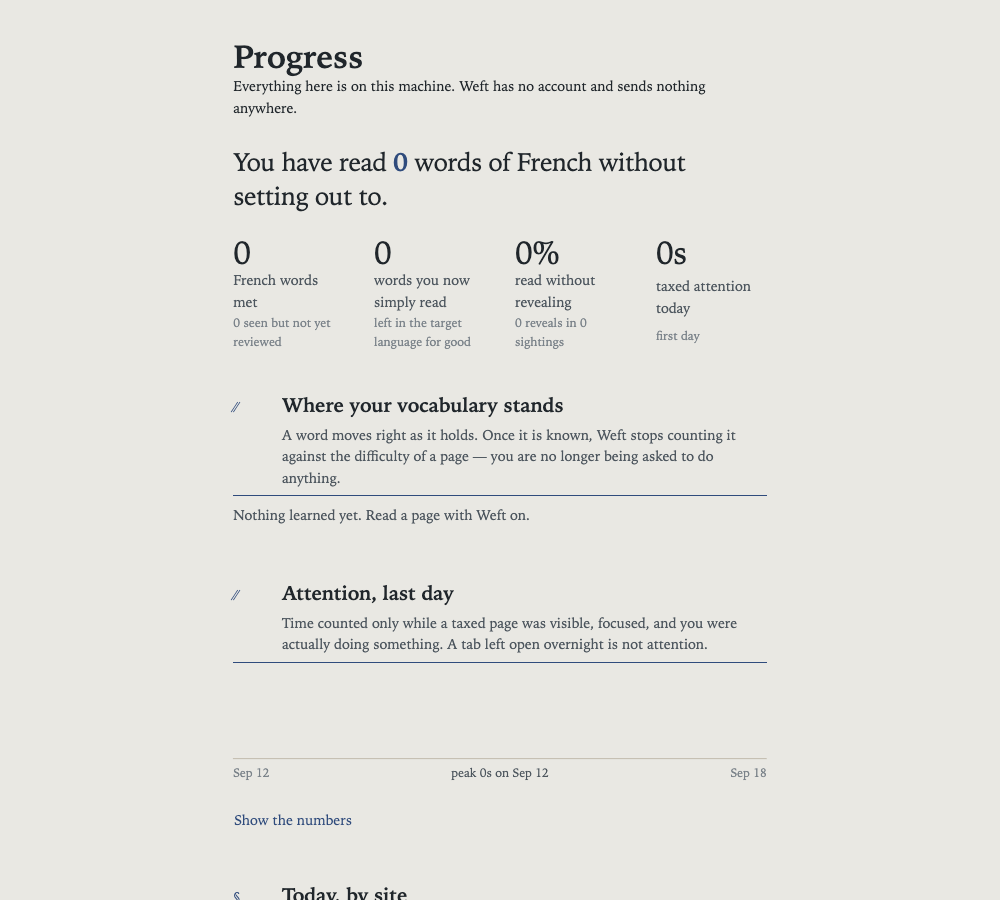
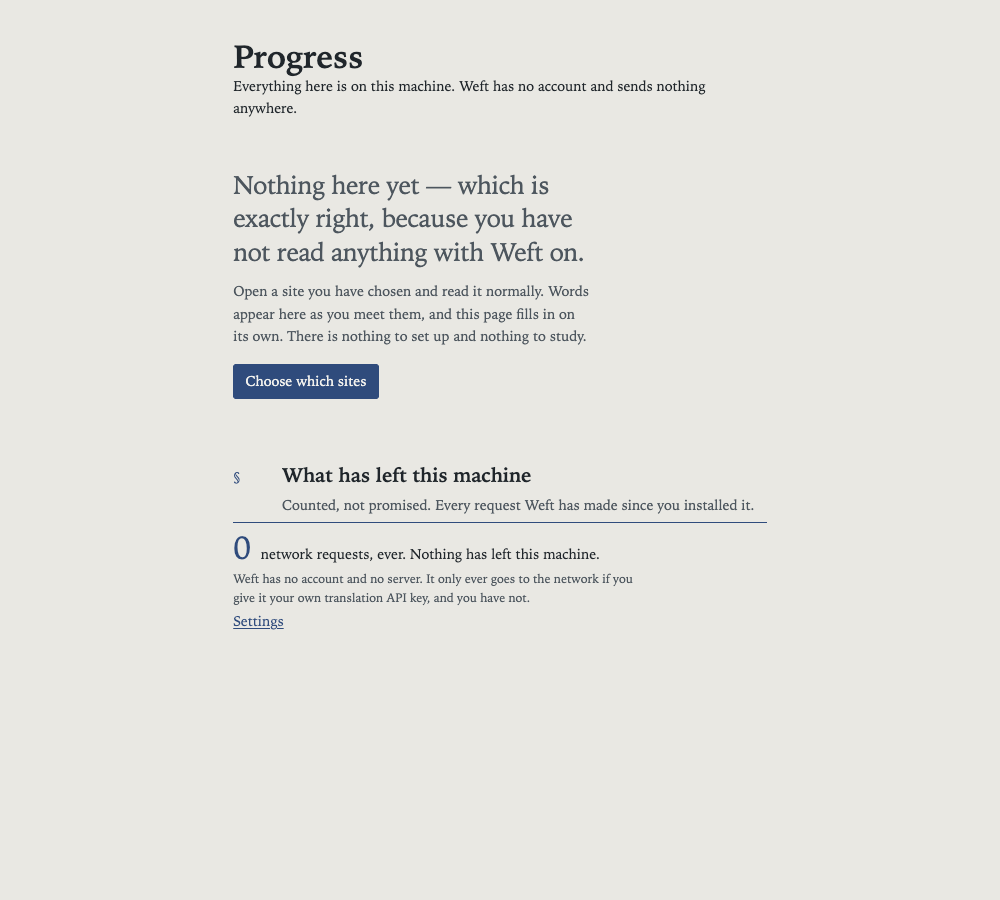
The progress page met new users with a wall of zeros
A fresh install opening Progress saw "You have read 0 words of French
without setting out to", four zero tiles, "Nothing learned yet" underneath a
heading about where your vocabulary stands, and a flat chart labelled
"peak 0s". Every panel was individually correct and the page as a whole read
as broken — on the first screen someone opens after installing.

It now says the true thing: nothing here yet, which is exactly right,
because you have not read anything with Weft on. Then what happens next, and
one button.

The panels that describe a history are hidden when there is none. The
transparency panel is deliberately NOT hidden, so the first thing a new
reader sees is "0 network requests, ever. Nothing has left this machine."
That panel is worth more empty than full: it is the most reassuring thing
this product can say to someone who has just installed a browser extension
and is wondering what it does.

Also caught myself inventing a CSS custom property. The new styles used
var(--ink-2), which is not in the theme — the token is --ink-soft — so the
text would have silently fallen back to inherited colour. Exactly the
dead-declaration failure I have been finding elsewhere in this codebase, so
I checked every token in the file afterwards; the rest resolve.

470 unit, 97 jsdom, three builds validated, 34 e2e (+1).

diff --git a/src/ui/dashboard/index.tsx b/src/ui/dashboard/index.tsx
@@ -92,6 +92,17 @@ function Dashboard() {
     historical: lang.historical,
     limit: 24,
   });
+  /**
+   * Has this install ever done anything?
+   *
+   * Worth its own branch, because every panel below is built for someone
+   * with a history. Shown to a new reader they render as a wall of zeros —
+   * "you have read 0 words", four zero tiles, an empty chart and a flat
+   * line — which reads as a broken page rather than as an unused one, on
+   * the first screen they open after installing.
+   */
+  const untouched = v.total === 0 && attn.todaySeconds === 0 && wordsRead(mine) === 0;
+
   const milestoneInput = { cards: mine, settings, now, streakDays: attn.streakDays };
   const earned = earnedMilestones(milestoneInput);
   const next = nextMilestone(milestoneInput);
@@ -146,11 +157,30 @@ function Dashboard() {
         </p>
       </header>
 
-      <p class="headline">
-        You have read <strong>{wordsRead(mine).toLocaleString()}</strong> words of{' '}
-        {lang.name} without setting out to.
-      </p>
+      {untouched ? (
+        <section class="empty">
+          <p class="empty__lead">
+            Nothing here yet — which is exactly right, because you have not read anything with
+            Weft on.
+          </p>
+          <p class="empty__body">
+            Open a site you have chosen and read it normally. Words appear here as you meet them,
+            and this page fills in on its own. There is nothing to set up and nothing to study.
+          </p>
+          <div class="empty__actions">
+            <button type="button" data-variant="primary" onClick={() => void api.runtime.openOptionsPage()}>
+              Choose which sites
+            </button>
+          </div>
+        </section>
+      ) : (
+        <p class="headline">
+          You have read <strong>{wordsRead(mine).toLocaleString()}</strong> words of{' '}
+          {lang.name} without setting out to.
+        </p>
+      )}
 
+      {untouched ? null : (
       <div class="tiles">
         <Tile
           value={String(v.total)}
@@ -173,6 +203,7 @@ function Dashboard() {
           detail={attn.streakDays > 1 ? `${attn.streakDays}-day run` : 'first day'}
         />
       </div>
+      )}
 
       {discoveries.length ? (
         <Section
@@ -226,6 +257,19 @@ function Dashboard() {
         </Section>
       ) : null}
 
+      {/*
+        Everything from here to the transparency panel describes a history.
+        With no history they render as empty shells — "nothing learned yet"
+        under a heading about where your vocabulary stands, a flat chart
+        with "peak 0s", an empty word list — which is a worse answer than
+        not asking the question. The empty state above says it once.
+
+        The transparency panel below is deliberately NOT hidden: "0 requests"
+        is the most useful thing this page can tell a reader who has just
+        installed the extension and wants to know what it does.
+      */}
+      {untouched ? null : (
+      <>
       <Section
         siglum="⁄⁄"
         title="Where your vocabulary stands"
@@ -344,6 +388,8 @@ function Dashboard() {
           <p class="muted">Showing the first 400 of {visible.length}.</p>
         ) : null}
       </Section>
+      </>
+      )}
 
       <Section
         siglum="§"

diff --git a/tests/e2e/friction.spec.ts b/tests/e2e/friction.spec.ts
@@ -521,3 +521,38 @@ test.describe('turning a site on from the popup', () => {
     await page.close();
   });
 });
+
+test.describe('the progress page before you have done anything', () => {
+  /*
+   * A fresh install opening Progress used to meet "You have read 0 words",
+   * four zero tiles, "Nothing learned yet" under a heading about where your
+   * vocabulary stands, and a flat chart reading "peak 0s". Each panel was
+   * correct and the page as a whole read as broken, on the first screen
+   * someone opens after installing.
+   */
+  test('shows an explanation, not a wall of zeros', async ({ context, extensionId, rpc }) => {
+    await rpc({ type: 'reset-vocabulary', confirm: 'yes' });
+
+    const page = await context.newPage();
+    await page.goto(`chrome-extension://${extensionId}/dashboard.html`);
+
+    await expect(page.locator('.empty__lead')).toBeVisible({ timeout: 10_000 });
+    await expect(page.locator('.headline')).toHaveCount(0);
+    await expect(page.locator('.tiles')).toHaveCount(0);
+
+    // The history panels describe a history there is none of.
+    await expect(page.getByText('Where your vocabulary stands')).toHaveCount(0);
+    await expect(page.getByText('Nothing learned yet')).toHaveCount(0);
+
+    /*
+     * But the transparency panel stays. "0 requests" is the most useful
+     * thing this page can tell someone who has just installed an extension
+     * and wants to know what it is doing, so it is the one panel that is
+     * worth more empty than full.
+     */
+    await expect(page.getByText('What has left this machine')).toBeVisible();
+    await expect(page.getByText(/network requests, ever/i)).toBeVisible();
+
+    await page.close();
+  });
+});

diff --git a/src/ui/dashboard/dashboard.css b/src/ui/dashboard/dashboard.css
@@ -244,3 +244,32 @@
 }
 
 .transparency__label { font-size: var(--t-15); line-height: 1.45; }
+
+/*
+ * The empty state, for an install that has not read anything yet.
+ *
+ * Replaces the headline and the tiles rather than sitting above them: four
+ * zeroes and a flat chart are not a smaller version of this page, they are
+ * a broken-looking one, and this is the first screen a new reader opens.
+ */
+.empty {
+  margin: 1.75rem 0 0;
+  max-width: 46ch;
+}
+
+.empty__lead {
+  margin: 0;
+  font-size: var(--t-27);
+  line-height: 1.32;
+  letter-spacing: -0.012em;
+}
+
+.empty__body {
+  margin: 0.75rem 0 0;
+  color: var(--ink-soft);
+  line-height: 1.6;
+}
+
+.empty__actions {
+  margin-top: 1.1rem;
+}
